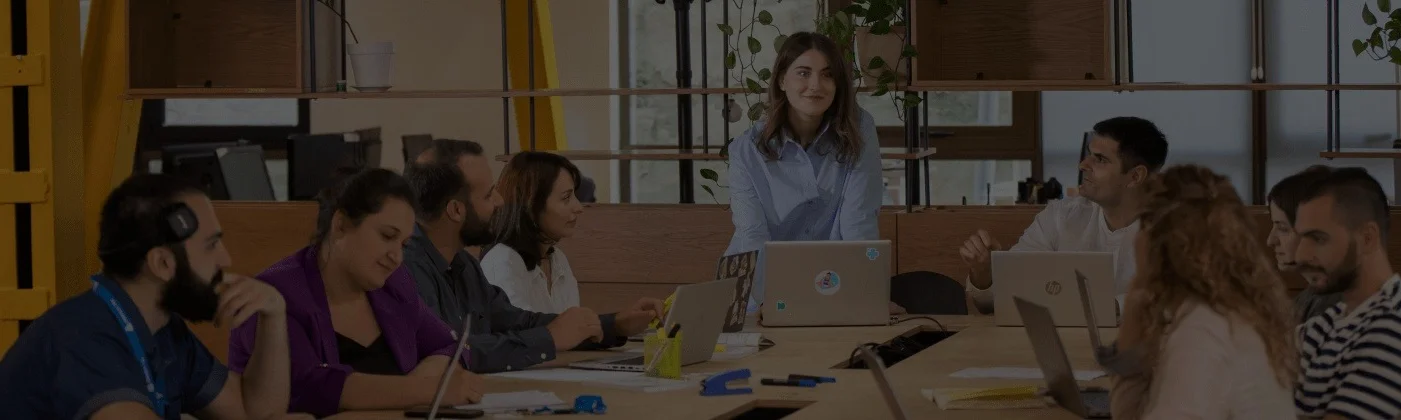
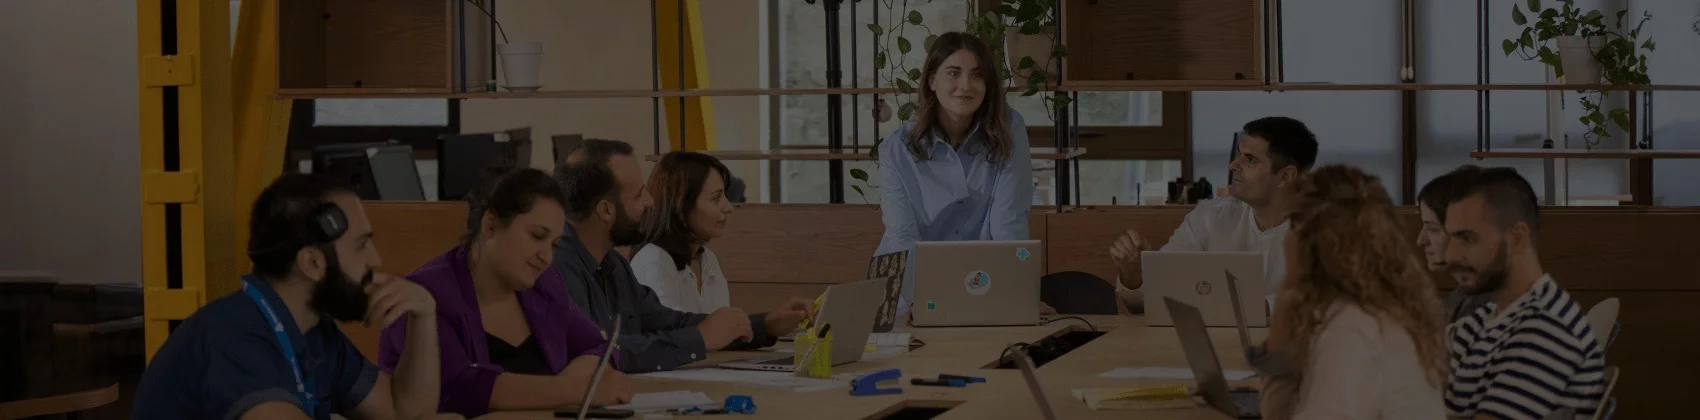
First version curses section

diff --git a/main.js b/main.js
@@ -1,0 +1,100 @@
+// Variables for DOM manipulation
+let coursesDiv = document.getElementById("cardContainer");
+
+// Data variables
+const coursesData = [
+  {
+    id: 1,
+    url: "./images/1.webp",
+    title: "iOS Development",
+    description: "რეგისტრაცია დასრულებულია",
+    button: "კურსის დეტალები",
+  },
+  {
+    id: 2,
+    url: "./images/2.webp",
+    title: "React",
+    description: "რეგისტრაცია დასრულებულია",
+    button: "კურსის დეტალები",
+  },
+  {
+    id: 3,
+    url: "./images/3.webp",
+    title: "Intro to Python",
+    description: "რეგისტრაცია დასრულებულია",
+    button: "კურსის დეტალები",
+  },
+  {
+    id: 4,
+    url: "./images/4.webp",
+    title: "Advanced Python",
+    description: "რეგისტრაცია დასრულებულია",
+    button: "კურსის დეტალები",
+  },
+  {
+    id: 5,
+    url: "./images/5.webp",
+    title: "Advanced Cybersecurity Course",
+    description: "რეგისტრაცია დასრულებულია",
+    button: "კურსის დეტალები",
+  },
+  {
+    id: 6,
+    url: "./images/6.webp",
+    title: "ToT - Training of Trainers",
+    description: "რეგისტრაცია დასრულებულია",
+    button: "კურსის დეტალები",
+  },
+  {
+    id: 7,
+    url: "./images/7.webp",
+    title: "Blockchain",
+    description: "რეგისტრაცია დასრულებულია",
+    button: "კურსის დეტალები",
+  },
+  {
+    id: 8,
+    url: "./images/8.webp",
+    title: "DevOps",
+    description: "რეგისტრაცია დასრულებულია",
+    button: "კურსის დეტალები",
+  },
+  {
+    id: 9,
+    url: "./images/9.webp",
+    title: "Information Security Governance",
+    description: "რეგისტრაცია დასრულებულია",
+    button: "კურსის დეტალები",
+  },
+];
+
+// Functions
+const courseCard = (url, title, description, button) => {
+  return `<div class="card">
+              <img src="${url}" alt="${title} course image" />
+              <div class="card-information">
+               <div>
+                    <h5>${title}</h5>
+                    <p>${description}</p>
+                </div>
+                <a>
+                    <svg preserveAspectRatio="xMidYMid meet" data-bbox="1.833 2.667 13.334 10.666" xmlns="http://www.w3.org/2000/svg" viewBox="1.833 2.667 13.334 10.666" height="16" width="17" data-type="color" role="presentation" aria-hidden="true"><defs><style>#comp-lnoncoa62__12a0b52d-d2f4-498f-8668-ef4342a659a0 svg [data-color="1"] {fill: #00AEEF;}</style></defs>
+                        <g>
+                            <path fill="#ffffff" d="m10.3 2.867 4.667 4.666a.645.645 0 0 1 0 .934L10.3 13.133a.644.644 0 0 1-.933 0 .644.644 0 0 1 0-.933L12.9 8.667H2.5c-.4 0-.667-.267-.667-.667s.267-.667.667-.667h10.4L9.367 3.8a.605.605 0 0 1-.2-.467c0-.2.066-.333.2-.466a.644.644 0 0 1 .933 0Z" data-color="1"></path>
+                        </g>
+                     </svg>
+                    <span>${button}</span>
+                </a>
+              </div>
+            </div>`;
+};
+
+// Move cards to parent tag
+coursesData.forEach((itm) => {
+  return (coursesDiv.innerHTML += courseCard(
+    itm.url,
+    itm.title,
+    itm.description,
+    itm.button
+  ));
+});

diff --git a/style.css b/style.css
@@ -46,7 +46,6 @@ nav ul li {
   padding: 0px 10px 0px 30px;
   font-family: lighter;
   font-size: 14px;
-  font-weight: lighter;
   line-height: 26px;
   transition: 0.3s;
   cursor: pointer;
@@ -131,4 +130,91 @@ main {
   font-weight: bold;
   display: inline-block;
   margin-top: 30px;
+}
+
+/* ===========================
+    courses section style 
+============================= */
+
+.courses {
+  width: 100%;
+  background-color: #161616;
+  display: flex;
+  justify-content: center;
+}
+
+.courses-container {
+  width: 980px;
+}
+
+.courses-title {
+  display: inline-block;
+  margin-top: 35px;
+  padding-bottom: 50px;
+  font-size: 24px;
+  font-family: lighter;
+}
+
+#cardContainer {
+  display: grid;
+  grid-template-columns: auto auto auto;
+  justify-content: space-between;
+}
+
+.card {
+  width: 300px;
+  height: 414px;
+  margin: 12.5px 0px;
+  border: 1px solid rgba(85, 85, 85, 1);
+  border-radius: 6px;
+  overflow: hidden;
+}
+
+.card img {
+  width: 100%;
+  height: 150px;
+}
+
+.card-information {
+  display: flex;
+  position: relative;
+  flex-direction: column;
+  height: 264px;
+}
+
+.card-information div {
+  width: 266px;
+  margin-left: 22px;
+}
+
+.card-information h5 {
+  font-family: lighter;
+  font-size: 18px;
+  margin-top: 30px;
+}
+
+.card-information p {
+  font-family: lighter;
+  font-size: 14px;
+  margin-top: 25px;
+}
+
+.card-information a {
+  display: flex;
+  align-items: flex-end;
+  position: absolute;
+  bottom: 26px;
+  left: 22px;
+  font-size: 16px;
+  font-family: lighter;
+  color: #00aeff;
+  cursor: pointer;
+}
+
+.card-information a svg {
+  padding-right: 7px;
+}
+
+.card-information a svg path {
+  fill: #00aeff;
 }

diff --git a/index.html b/index.html
@@ -129,10 +129,7 @@
     <!-- The main section includes everything except the header and footer  -->
     <main>
       <section class="banner">
-        <img
-          src="./images/93e8a3_9fa23196ddf6427a9da574e2b31a13d2~mv2.webp"
-          alt="Team Banner"
-        />
+        <img src="./images/banner.webp" alt="Team Banner" />
         <div class="banner-title">
           <span>TBC x USAID</span>
           <br />
@@ -153,6 +150,15 @@
           <a href="#">გაიგე მეტი</a>
         </div>
       </section>
+      <!-- Information about courses  -->
+      <section class="courses">
+        <div class="courses-container">
+          <span class="courses-title">სასწავლო კურსები</span>
+          <div id="cardContainer"></div>
+        </div>
+      </section>
     </main>
+    <!-- Connect to javascript file -->
+    <script src="./main.js"></script>
   </body>
 </html>
